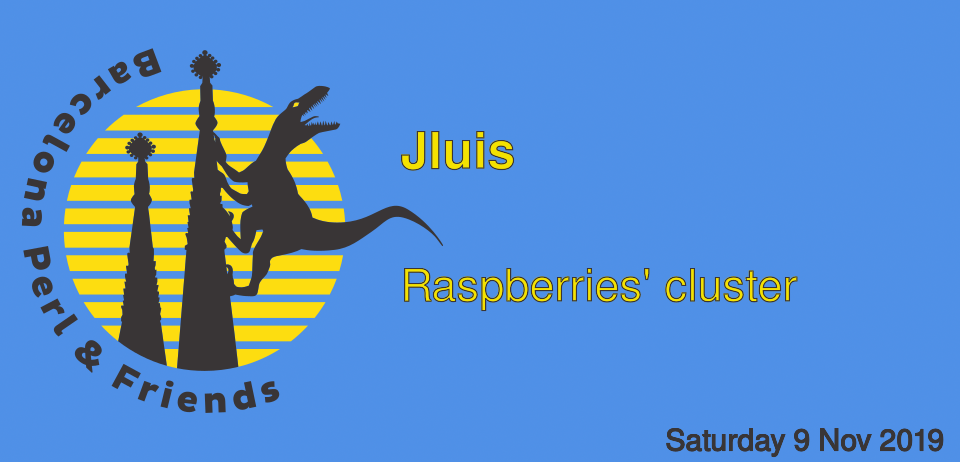
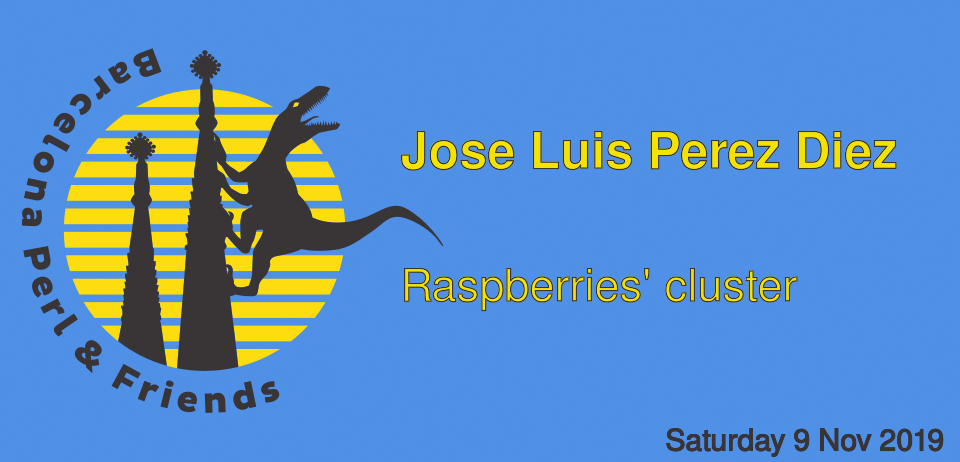
update raspi takl

Changed region(s): [[0.4375, 0.2727, 0.9375, 0.3939]]

diff --git a/2019/talks/raspberries-cluster.html b/2019/talks/raspberries-cluster.html
@@ -2,10 +2,10 @@
   <head>
     <title>Barcelona Perl & Friends 2019</title>
     <meta name="twitter:card" content="summary_large_image" />
-    <meta name="twitter:title" content= "Jluis - Raspberries' cluster"/>
+    <meta name="twitter:title" content= "Jose Luis Perez Diez - Raspberries' cluster"/>
     <meta property="og:site_name" content="Barcelona Perl & Friends 2019"/>
     <meta property="og:url" content="friends.barcelona.pm" />
-    <meta property="og:description" content="Desde que conoci el proyecto Beowulf siempre he querido montar un cluster pero cuando tenia acceso a maquinas para montarlo faltaba tiempo. Presentare el cluster que estoy montando con de 3 pi 4B y una 3. Los problemas a los que me he enfrentado y las soluciones que he adoptado. Tambien habra tiempo para Q&A y conectarse al cluster via wifi." />
+    <meta property="og:description" content="Desde que conocí el proyecto Beowulf siempre he querido montar un clúster, pero cuando tenía acceso a máquinas para montarlo me faltaba tiempo. Presentaré el clúster que estoy montando con 3 4B y una 3B, los problemas a los que me he enfrentado y las soluciones que he adoptado. También habrá tiempo para Q&A y conectarse al clúster via wifi." />
     <meta property="og:image" content="http://friends.barcelona.pm/2019/images/talks/raspberries-cluster.png" />
   </head>
   <body>
